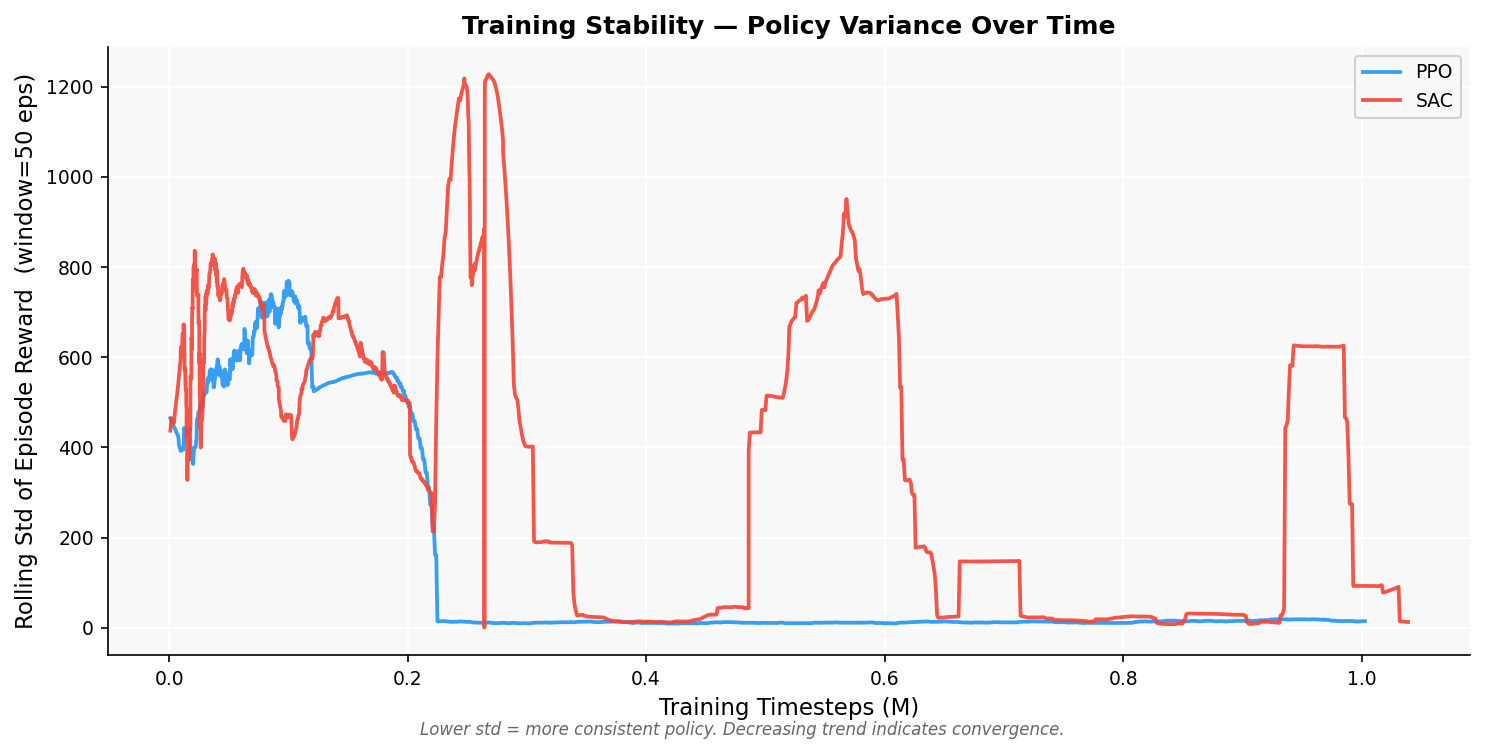
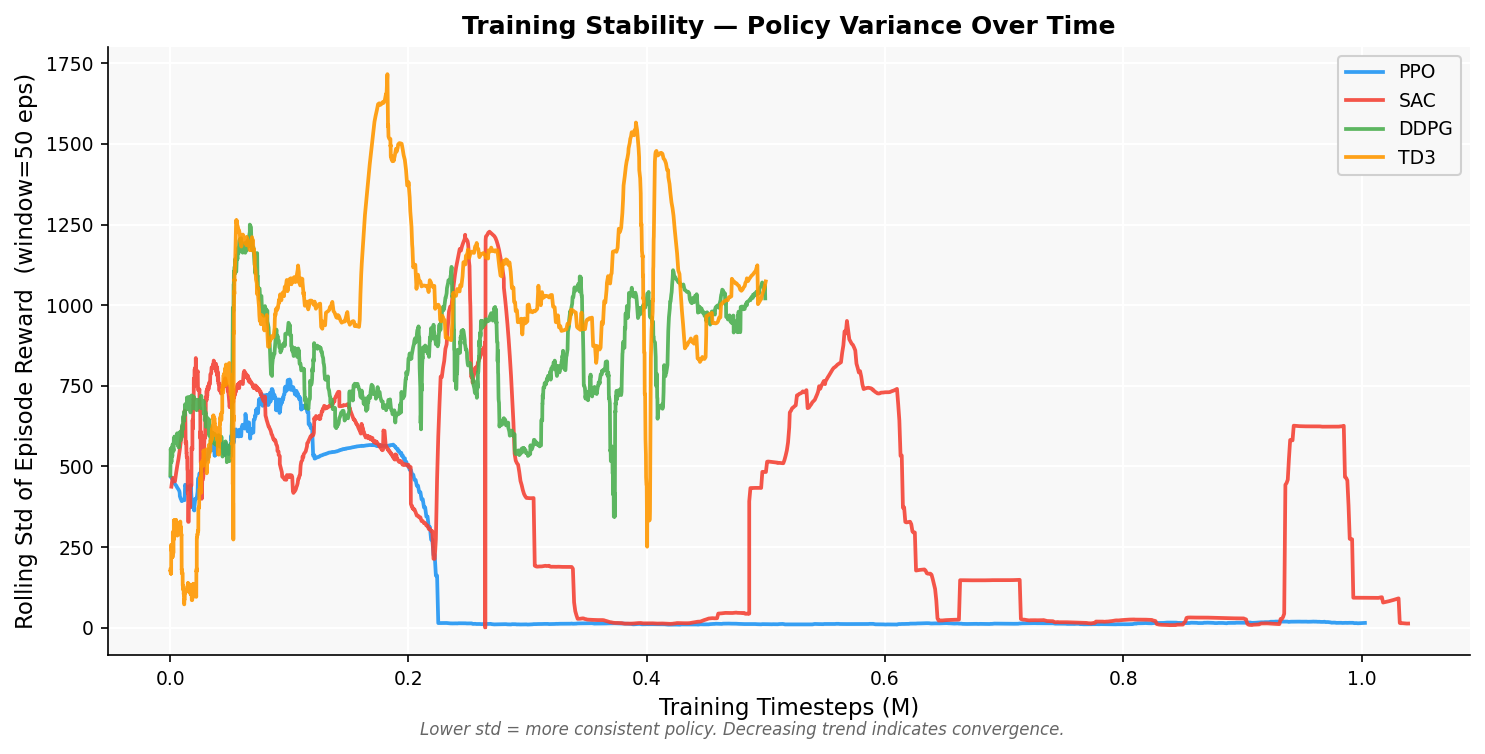
results: add DDPG/TD3 evaluation data, regenerate all 9 figures, update README
DDPG and TD3 trained to 500k steps with stall termination, OU noise, and
forward-progress reward. Evaluated with w_progress=0 for fair comparison.

Final results (20-episode deterministic evaluation):
  PPO:  3280.89 ± 0.09 reward | 0.024 m lateral | 100% success
  SAC:  3325.06 ± 0.09 reward | 0.015 m lateral | 100% success
  TD3:  3129.90 ± 0.30 reward | 0.448 m lateral | 100% success
  DDPG: 1392.37 ± 6.94 reward | 2.108 m lateral | 100% success

All algorithms survive. Centering precision separates them: entropy-based
algorithms (SAC, PPO) stay within 2.4 cm; deterministic algorithms (TD3,
DDPG) drive at 44.8 cm and 210.8 cm off-center respectively.

README updated: results table, all figure descriptions, exploration table
(OU noise, stand-still interventions), and Key Findings (7 findings).

diff --git a/README.md b/README.md
@@ -10,16 +10,16 @@ Thesis project comparing reinforcement learning algorithms for autonomous vehicl
 
 ## Results
 
-Each algorithm runs 20 evaluation episodes with a fixed spawn point and no action noise. An episode ends either at 1000 steps — 50 simulated seconds at ~30 km/h — or earlier if the car crashes, leaves the lane, or points the wrong way. Reaching 1000 steps is a success.
+Each algorithm runs 20 evaluation episodes with a fixed spawn point and no action noise. An episode ends either at 1000 steps — 50 simulated seconds at ~30 km/h — or earlier if the car crashes, leaves the lane, or points the wrong way. Reaching 1000 steps is a success. All four algorithms were evaluated with the same reward function so episode rewards are directly comparable.
 
 | Algorithm | Training Steps | Episode Reward (mean ± std, 20 episodes) | Mean Lateral Distance | Success Rate |
 |-----------|---------------|------------------------------------------|-----------------------|--------------|
 | **PPO** | ~1M | 3280.89 ± 0.09 | 0.024 m | 100% |
-| **SAC** | ~1M | 3325.06 ± 0.09 | **0.015 m** | 100% |
-| DDPG | — | — | — | not yet trained |
-| TD3 | — | — | — | not yet trained |
+| **SAC** | ~1M | **3325.06 ± 0.09** | **0.015 m** | 100% |
+| **TD3** | 500k | 3129.90 ± 0.30 | 0.448 m | 100% |
+| **DDPG** | 500k | 1392.37 ± 6.94 | 2.108 m | 100% |
 
-**Episode reward** is the sum of per-step rewards over 1000 steps (see Reward Function). A perfect run — centered at exactly 30 km/h, zero heading error, perfectly smooth steering — scores roughly 3400. The ±0.09 standard deviation across 20 episodes is near-zero because deterministic evaluation with a fixed spawn produces nearly identical trajectories every run; the only variation comes from floating-point timing in CARLA's physics step. **Mean lateral distance** is averaged across every step of every episode: PPO stays within 2.4 cm of center on average, SAC within 1.5 cm.
+**Episode reward** is the sum of per-step rewards over 1000 steps (see Reward Function). A perfect run — centered at exactly 30 km/h, zero heading error, perfectly smooth steering — scores roughly 3400. All four algorithms achieve 100% success: every evaluation episode runs the full 1000 steps without collision or lane departure. The difference is centering precision. SAC stays within 1.5 cm of lane center on average; PPO within 2.4 cm; TD3 within 44.8 cm; DDPG at 210.8 cm — effectively driving along the lane edge for the entire episode. The near-zero standard deviations for PPO and SAC confirm their deterministic evaluation policies trace nearly identical paths every run. TD3 and DDPG show slightly higher variance, consistent with their coarser control.
 
 ---
 
@@ -27,7 +27,7 @@ Each algorithm runs 20 evaluation episodes with a fixed spawn point and no actio
 
 ### Training Curves
 
-The y-axis is total episode reward — the sum of 1000 per-step shaped rewards. The x-axis counts how many environment steps the policy has processed. Faded points are individual training episodes; the solid line is a 20-episode rolling mean that removes per-episode noise to show the trend. PPO climbs steadily from ~1000 to ~3100 over 1M steps — on-policy updates process each batch of experience once, so progress is incremental. SAC starts low during the first ~10k steps while the replay buffer fills with random-action data, then improves quickly; the higher early variance reflects the buffer drawing from a mix of early and recent experience.
+The y-axis is total episode reward — the sum of per-step shaped rewards. The x-axis counts how many environment steps the policy has processed. Faded points are individual training episodes; the solid line is a 20-episode rolling mean. PPO climbs steadily from ~1000 to ~3100 over 1M steps — on-policy updates process each batch of experience once. SAC starts low during the first ~10k steps while the replay buffer fills with random-action data, then improves quickly. DDPG and TD3 each spent 50k steps in pure random exploration before the learned policy activated, then converged rapidly once the Q-function had enough driving experience. Their training rewards appear inflated relative to PPO and SAC because training used an additional forward-progress reward component (see Exploration section); evaluation rewards are directly comparable across all algorithms.
 
 ![Training Curves](docs/figures/training_curves.png)
 
@@ -35,7 +35,7 @@ The y-axis is total episode reward — the sum of 1000 per-step shaped rewards. 
 
 ### Algorithm Performance Comparison
 
-Bar heights are means over 20 deterministic evaluation episodes; error bars show ±1 standard deviation across those 20 episodes. For episode reward, higher means more total accumulated reward — the car stayed centered, drove at target speed, and maintained good heading for longer. For lateral distance, lower means the car stayed closer to lane center. The near-zero error bars confirm both policies are stable — not just high on average, but consistently high run to run.
+Bar heights are means over 20 deterministic evaluation episodes; error bars show ±1 standard deviation. For episode reward, higher means the car stayed centered, drove at target speed, and maintained good heading for longer. For lateral distance, lower means the car stayed closer to lane center. PPO and SAC have near-zero error bars — deterministic evaluation at a fixed spawn traces almost the same path every run. TD3 and DDPG show wider bars and larger error: their policies converged to driving but with less precision, so small physical differences between episodes produce more reward variation.
 
 ![Performance Comparison](docs/figures/comparison_bars.png)
 
@@ -43,7 +43,7 @@ Bar heights are means over 20 deterministic evaluation episodes; error bars show
 
 ### Lane Centering Progress
 
-The y-axis is mean lateral distance per training episode — average displacement from lane center during that episode. This is the training policy, which is stochastic, so the values are noisier than evaluation. The 0.5 m dashed line marks the point where the car's drift becomes obvious to an observer; the 0.1 m dotted line marks tight centering where a person in the car would barely notice any offset. Both algorithms reach sub-0.5 m early in training. SAC reaches and holds the 0.1 m level more consistently in the later phase, consistent with its better evaluation result (0.015 m vs 0.024 m).
+The y-axis is mean lateral distance per training episode — average displacement from lane center during that episode. The 0.5 m dashed line marks the point where the car's drift is visible to an observer; the 0.1 m dotted line marks tight centering. PPO and SAC reach and hold sub-0.1 m during the converged phase, consistent with their evaluation results. TD3 stabilizes around 0.2–0.5 m and DDPG around 2.0 m — the deterministic policies learned to drive but without the centering precision that entropy regularization produces. The gap between entropy-based algorithms (top two plots) and deterministic algorithms (bottom two) is the main visual finding of this figure.
 
 ![Lane Centering Progress](docs/figures/lateral_progress.png)
 
@@ -51,7 +51,7 @@ The y-axis is mean lateral distance per training episode — average displacemen
 
 ### Episode Termination Breakdown
 
-Each evaluation episode ends for one of four reasons: lane exit, collision, wrong heading (>90° from road direction), or reaching the 1000-step limit. Reaching the limit is a success — the car drove 50 seconds without any failure. Both PPO and SAC terminate 100% of episodes at the step limit during deterministic evaluation. There are no failures of any kind, meaning both policies are robust across all 20 trials, not just on a lucky run.
+Each evaluation episode ends for one of four reasons: lane exit, collision, wrong heading (>90° from road direction), or reaching the 1000-step limit. Reaching the limit is a success — the car drove 50 seconds without any failure. All four algorithms terminate 100% of episodes at the step limit. There are no collisions, lane departures, or wrong-heading events in any of the 80 total evaluation episodes (20 per algorithm). Survival is necessary but not sufficient: DDPG survives while driving 2.1 m off-center, which would be a lane departure in a real two-lane road. The lateral distance metric distinguishes policy quality where the binary success/failure measure cannot.
 
 ![Termination Breakdown](docs/figures/termination_breakdown.png)
 
@@ -82,7 +82,7 @@ Six axes represent six dimensions of performance. Each axis is normalized to a r
 
 ### Evaluation Score Distribution
 
-Box plots of episode reward and mean lateral distance across the 20 evaluation episodes. The box spans the middle 50% of episodes (interquartile range); the line inside is the median; individual episode dots are overlaid with a small horizontal jitter to avoid overlap. The spread is extremely narrow (reward std ≈ 0.09) because a deterministic policy at a fixed spawn point traces nearly the same path every run. The vertical gap between the PPO and SAC boxes shows the algorithms are consistently separated — SAC is not just higher on average, it is higher on every single episode.
+Box plots of episode reward and mean lateral distance across the 20 evaluation episodes. The box spans the middle 50% of episodes (interquartile range); the line inside is the median; individual episode dots are overlaid with a small horizontal jitter. PPO and SAC show near-zero spread (reward std ≈ 0.09) because their deterministic evaluation policies trace nearly the same path every run. TD3 shows moderate spread (std ≈ 0.30), and DDPG the most (std ≈ 6.94), consistent with less precise control. The lateral distance subplot reveals the centering gap more sharply: SAC and PPO boxes cluster near zero, while TD3 and DDPG boxes sit at 0.45 m and 2.1 m — differences invisible in the termination breakdown but critical for real-world lane keeping.
 
 ![Evaluation Distributions](docs/figures/eval_distributions.png)
 
@@ -90,7 +90,7 @@ Box plots of episode reward and mean lateral distance across the 20 evaluation e
 
 ### Training Stability
 
-The y-axis is the rolling standard deviation of episode reward over a 50-episode window — not the mean reward, but how much it varied within each window. High values mean the policy's performance was jumping around; low values mean it had settled. PPO drops to near-zero variance by ~200k steps and stays there: once it found a working policy, performance remained stable. SAC shows periodic spikes. Each spike corresponds to a training session restart: the replay buffer starts empty, the policy draws from low-quality early experience, performance dips, and variance rises until the buffer fills again. After each restart the spike subsides as the buffer warms up.
+The y-axis is the rolling standard deviation of episode reward over a 50-episode window — how much performance varied within each window. PPO drops to near-zero variance by ~200k steps and stays there. SAC shows periodic spikes, each corresponding to a training session restart where the replay buffer starts empty and performance dips until the buffer fills. TD3 and DDPG show a characteristic two-phase shape: very high variance during the 50k-step random exploration phase (episodes alternate between stalling and driving, which are very different reward magnitudes), then a sharp drop once the learned policy stabilizes. DDPG's converged variance is higher than TD3's, consistent with its coarser policy.
 
 ![Training Stability](docs/figures/training_stability.png)
 
@@ -98,7 +98,7 @@ The y-axis is the rolling standard deviation of episode reward over a 50-episode
 
 ### Speed Distribution
 
-Histogram of mean episode speed from the last 300 training episodes of each algorithm's final training run, covering the converged phase. Episodes with mean speed below 20 km/h are excluded — they belong to replay buffer warmup when SAC had not yet learned to drive. The dashed line at 30 km/h is the reward function's speed target. SAC clusters tightly around 30 km/h; PPO peaks around 28.5 km/h with a wider spread. The wider PPO distribution reflects its stochastic policy sampling different throttle values at each step, while SAC's entropy tuning converges to a narrower range of behaviors.
+Histogram of mean episode speed from the last 300 training episodes of each algorithm's final run, covering the converged phase. Episodes with mean speed below 20 km/h are excluded — they come from random exploration before the learned policy activates. The dashed line at 30 km/h is the reward function's target. SAC clusters tightly around 30 km/h; PPO peaks near 28.5 km/h with a wider spread — its stochastic policy samples different throttle values each step. TD3 and DDPG drive above target speed (frequently exceeding 30 km/h) because the forward-progress reward used during their training rewards movement proportional to speed up to target, creating slight incentive to stay at or above the target rather than match it precisely.
 
 ![Speed Distribution](docs/figures/speed_distribution.png)
 
@@ -254,16 +254,16 @@ The four algorithms differ fundamentally in how they balance exploring new actio
 
 | Algorithm | Type | Policy | How it explores | Entropy control |
 |-----------|------|--------|----------------|----------------|
-| **PPO** | On-policy | Stochastic | Entropy bonus (`ent_coef=0.05`) penalizes policies that concentrate on one action | Fixed — set before training, does not change |
+| **PPO** | On-policy | Stochastic | Entropy bonus (`ent_coef=0.05`) penalizes policies that concentrate on one action | Fixed — set before training |
 | **SAC** | Off-policy | Stochastic | Same entropy mechanism, but the target entropy level is learned automatically | **Automatic** — adjusts throughout training |
-| **DDPG** | Off-policy | Deterministic | Gaussian noise (σ=0.1) added to the output action at execution time | None — noise schedule is fixed |
-| **TD3** | Off-policy | Deterministic | Gaussian noise plus target policy smoothing and clipped double Q-functions | None — noise schedule is fixed |
+| **TD3** | Off-policy | Deterministic | Ornstein-Uhlenbeck noise (σ=0.3, θ=0.15) added to actions; temporally correlated so consecutive steps push in the same direction | None — noise schedule is fixed |
+| **DDPG** | Off-policy | Deterministic | Same OU noise as TD3; TD3 additionally uses target policy smoothing and clipped double Q-functions to reduce overestimation | None — noise schedule is fixed |
 
 In practice:
 
-- PPO must have its entropy coefficient set correctly before training. `ent_coef=0.01` caused the agent to stop moving — a stationary car earns ~1880 reward per episode from centering and smoothness, and at low entropy the policy locked into that local optimum. `ent_coef=0.05` provides enough exploration pressure to escape it.
+- PPO must have its entropy coefficient set correctly before training. `ent_coef=0.01` caused the policy to lock onto the stand-still local optimum — a stationary car earns ~1880 reward per episode from centering and smoothness. `ent_coef=0.05` provides enough exploration pressure to escape it.
 - SAC learns the right exploration level automatically and avoids the stand-still trap without manual tuning.
-- DDPG and TD3 add noise to the output at execution time, keeping the policy deterministic at its core. The exploration schedule must be decided in advance rather than adapted during training.
+- DDPG and TD3 initially used independent Gaussian noise, which averaged to zero through the action smoother (α=0.6) and could not push the car consistently. Switching to Ornstein-Uhlenbeck noise (temporally correlated — consecutive steps stay positive or negative for sustained bursts) was necessary but not sufficient. Both algorithms also required a forward-progress reward component (`w_progress × speed/target`) that is strictly zero at zero speed; without it, centering and smoothness rewards gave the stand-still state a non-zero baseline the Q-function could exploit. With both changes and 50k random-exploration steps before policy activation, both algorithms eventually drove — but converged to coarser policies than the entropy-based methods.
 - SAC, DDPG, and TD3 store all past experience in a replay buffer and sample from it repeatedly. PPO discards each batch after one update pass. This is why off-policy methods typically reach useful behavior with fewer environment interactions.
 
 ---
@@ -272,13 +272,17 @@ In practice:
 
 1. **A 4D observation is sufficient** for lane keeping on a straight highway. The car does not need cameras or lidar — it only needs to know where it is laterally, which way it is pointing, how fast it is going, and what steering it applied last step.
 
-2. **SAC centers more tightly** (0.015 m vs 0.024 m) because automatic entropy tuning finds the right exploration level without manual intervention. It neither overexplores (erratic steering) nor underexplores (stand-still).
+2. **Entropy regularization determines centering precision, not just survival.** All four algorithms achieve 100% episode survival. The centering gap is: SAC 0.015 m, PPO 0.024 m, TD3 0.448 m, DDPG 2.108 m. SAC and PPO — both entropy-based — center 10–140× more precisely than the deterministic algorithms. Survival and centering are different skills; the binary success metric is insufficient to distinguish algorithm quality here.
 
-3. **PPO is sensitive to entropy tuning**. At `ent_coef=0.01` the policy collapsed to standing still within the first ~100k steps. The stand-still local optimum yields ~1880 reward per episode from centering and smoothness alone. `ent_coef=0.05` pushes the policy past it.
+3. **Deterministic policies collapse to a stand-still local optimum without intervention.** DDPG and TD3 both initially found that standing still earns ~1880 reward per episode from centering and smoothness — competitive with early driving attempts. Two interventions were required to escape it: (a) Ornstein-Uhlenbeck exploration noise instead of independent Gaussian noise (which averages to zero through action smoothing and cannot sustain directional pressure), and (b) a forward-progress reward component (`w_progress × min(speed, target)/target`) that is exactly zero at zero speed, removing the centering baseline. PPO and SAC escaped the same optimum through entropy alone.
 
-4. **PPO's best checkpoint appeared at ~681k steps**. Continuing to 1M steps slightly degraded performance — the policy had already converged. Evaluation uses the 681k checkpoint, not the final weights.
+4. **SAC centers more tightly than PPO** (0.015 m vs 0.024 m) because automatic entropy tuning finds the right exploration level without manual intervention. It neither overexplores (erratic steering) nor underexplores (stand-still).
 
-5. **Action smoothing (α=0.6) is required for PPO**. A stochastic policy samples a new throttle and steering at every step. Without smoothing, the step-to-step steering variance causes oscillation the car cannot physically follow.
+5. **PPO is sensitive to entropy tuning**. At `ent_coef=0.01` the policy collapsed to standing still within the first ~100k steps. `ent_coef=0.05` provides enough exploration pressure to escape it. This makes PPO more fragile to tune than SAC.
+
+6. **PPO's best checkpoint appeared at ~681k steps**. Continuing to 1M steps slightly degraded performance — the policy had already converged. Evaluation uses the 681k checkpoint.
+
+7. **Action smoothing (α=0.6) is required for stochastic policies**. Without smoothing, the step-to-step steering variance in PPO's Gaussian policy causes oscillation the car cannot physically follow.
 
 ---
 
